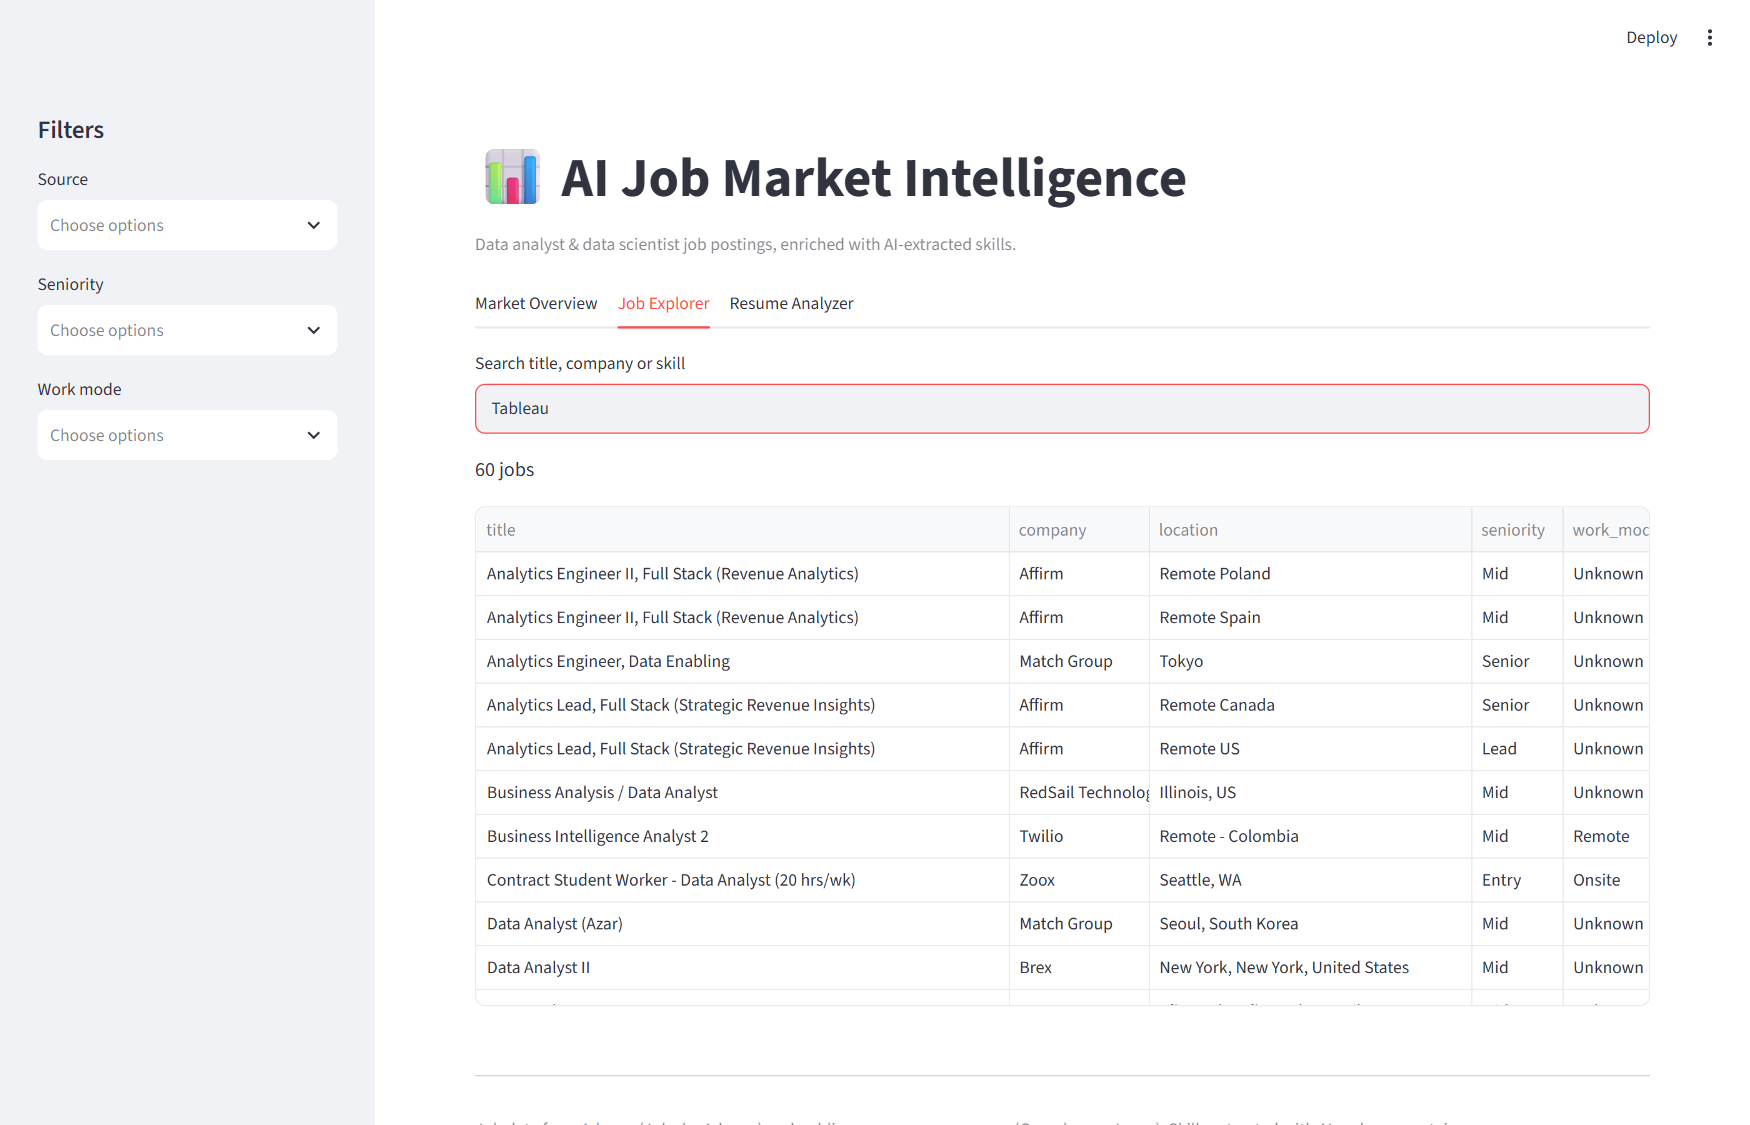
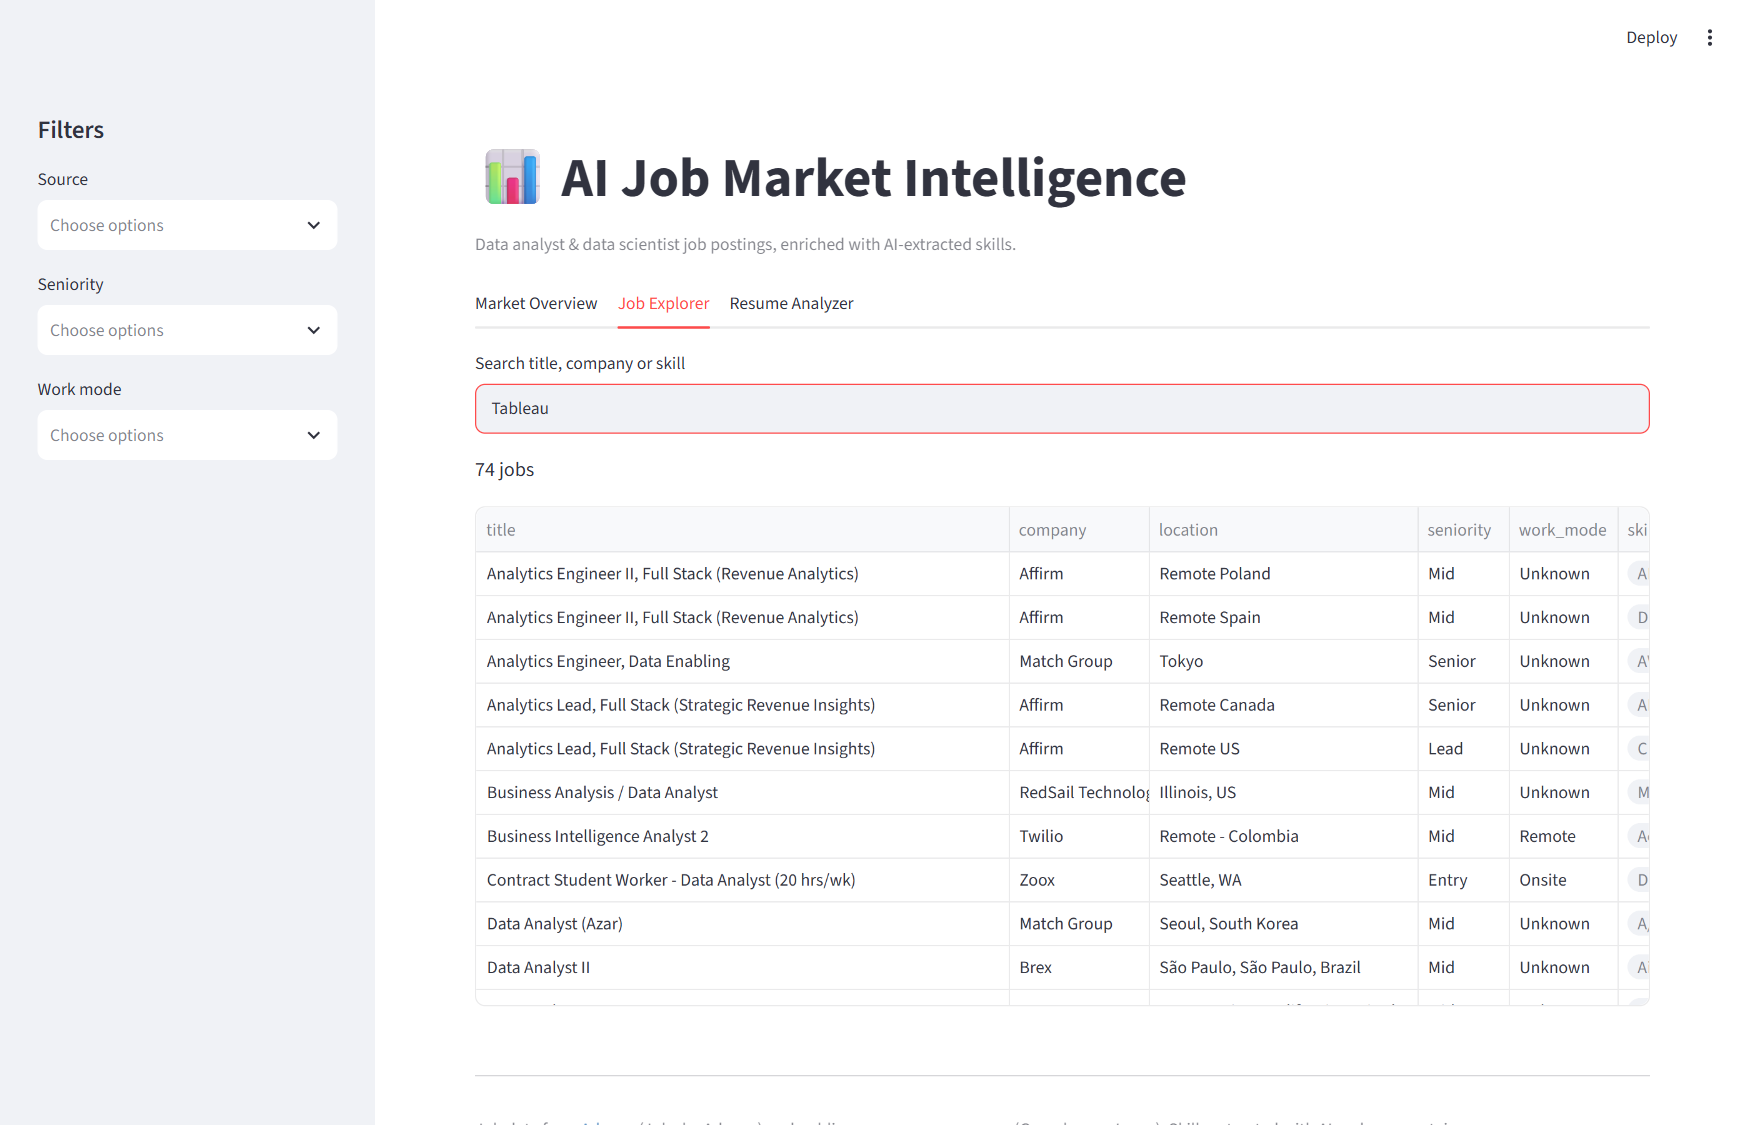
Add semantic resume matching with embeddings and pgvector
- embed_jobs.py stores a 384-dim fastembed embedding per job
- Resume match = 50% skill overlap + 50% embedding similarity via match_jobs()
- Daily workflow embeds new jobs; schema saved in sql/schema.sql
- Clean UTF-8 requirements.txt with direct dependencies only

diff --git a/app.py b/app.py
@@ -15,6 +15,7 @@ import pandas as pd
 import plotly.express as px
 import streamlit as st
 from dotenv import load_dotenv
+from fastembed import TextEmbedding
 from pypdf import PdfReader
 from supabase import create_client
 
@@ -30,12 +31,27 @@ def get_secret(name):
     return st.secrets[name].strip()
 
 
+@st.cache_resource  # connect once and re-use the connection
+def get_supabase():
+    return create_client(get_secret("SUPABASE_URL"), get_secret("SUPABASE_KEY"))
+
+
+@st.cache_resource  # load the embedding model once (~70 MB)
+def get_embedding_model():
+    return TextEmbedding("BAAI/bge-small-en-v1.5")
+
+
+# Every column except the big "embedding" column, which the dashboard doesn't need
+JOB_COLUMNS = ("job_id, source, title, company, location, salary_min, salary_max, url, "
+               "posted_date, search_term, skills, seniority, work_mode, years_experience")
+
+
 @st.cache_data(ttl=600)  # re-use the data for 10 minutes instead of reloading every click
 def load_jobs():
-    supabase = create_client(get_secret("SUPABASE_URL"), get_secret("SUPABASE_KEY"))
+    supabase = get_supabase()
     rows, start, page_size = [], 0, 1000
     while True:  # Supabase returns max 1000 rows per request, so we page through
-        batch = supabase.table("jobs").select("*").range(start, start + page_size - 1).execute().data
+        batch = supabase.table("jobs").select(JOB_COLUMNS).range(start, start + page_size - 1).execute().data
         rows.extend(batch)
         if len(batch) < page_size:
             break
@@ -57,6 +73,18 @@ def normalize_skills(df):
         display.setdefault(skill.lower(), skill)
     df["skills"] = df["skills"].apply(lambda skills: sorted({display[s.strip().lower()] for s in skills}))
     return df
+
+
+def semantic_similarity(resume_text):
+    """Embed the resume and ask pgvector for its similarity to every job.
+    Returns {job_id: score 0-100}, rescaled so the closest job = 100."""
+    vector = next(get_embedding_model().query_embed(resume_text)).tolist()
+    rows = get_supabase().rpc("match_jobs", {"query_embedding": vector, "match_count": 5000}).execute().data
+    if not rows:
+        return {}
+    sims = pd.Series({r["job_id"]: r["similarity"] for r in rows})
+    # Raw similarities sit in a narrow band (e.g. 0.55-0.85), so spread them to 0-100
+    return (100 * (sims - sims.min()) / (sims.max() - sims.min() or 1)).to_dict()
 
 
 jobs = load_jobs()
@@ -98,7 +126,7 @@ with overview_tab:
         fig = px.bar(skill_counts[::-1], orientation="h", title="Top 15 in-demand skills",
                      labels={"value": "Job postings", "index": ""})
         fig.update_layout(showlegend=False)
-        left.plotly_chart(fig, use_container_width=True)
+        left.plotly_chart(fig, width="stretch")
     else:
         left.info("No skills extracted yet - run pipeline/extract_skills.py")
 
@@ -106,22 +134,22 @@ with overview_tab:
     fig = px.bar(top_companies[::-1], orientation="h", title="Companies hiring the most",
                  labels={"value": "Job postings", "index": ""})
     fig.update_layout(showlegend=False)
-    right.plotly_chart(fig, use_container_width=True)
+    right.plotly_chart(fig, width="stretch")
 
     left, right = st.columns(2)
     order = ["Intern", "Entry", "Mid", "Senior", "Lead", "Unknown"]
     seniority_counts = filtered["seniority"].value_counts().reindex(order).dropna()
     left.plotly_chart(px.bar(seniority_counts, title="Jobs by seniority",
                              labels={"value": "Job postings", "index": ""}).update_layout(showlegend=False),
-                      use_container_width=True)
+                      width="stretch")
     right.plotly_chart(px.pie(filtered, names="work_mode", title="Remote vs hybrid vs onsite", hole=0.4),
-                       use_container_width=True)
+                       width="stretch")
 
     if len(with_salary):
         st.plotly_chart(px.box(with_salary, x="search_term", y="salary_min", points=False,
                                title="Minimum salary by role (Adzuna jobs)",
                                labels={"search_term": "", "salary_min": "Min salary ($)"}),
-                        use_container_width=True)
+                        width="stretch")
 
 # ---------- 4. Job explorer ----------
 with explorer_tab:
@@ -143,7 +171,7 @@ with explorer_tab:
             "salary_min": st.column_config.NumberColumn("Min salary", format="$%d"),
         },
         hide_index=True,
-        use_container_width=True,
+        width="stretch",
     )
 
 # ---------- 5. Resume analyzer ----------
@@ -152,35 +180,44 @@ with resume_tab:
     uploaded = st.file_uploader("Resume (PDF)", type="pdf")
 
     if uploaded:
-        resume_text = " ".join(page.extract_text() or "" for page in PdfReader(uploaded).pages).lower()
+        resume_text = " ".join(page.extract_text() or "" for page in PdfReader(uploaded).pages)
 
         # Which known skills appear in the resume? (whole-word match)
         all_skills = {s for skills in jobs["skills"] for s in skills}
         my_skills = {s for s in all_skills
-                     if re.search(rf"(?<![a-z0-9]){re.escape(s.lower())}(?![a-z0-9])", resume_text)}
+                     if re.search(rf"(?<![a-z0-9]){re.escape(s.lower())}(?![a-z0-9])", resume_text.lower())}
 
         st.subheader(f"Skills found in your resume ({len(my_skills)})")
         st.write(", ".join(sorted(my_skills)) or "No known skills found.")
 
-        # Score each job: what share of its skills do you have?
+        # Score 1 - skill match: what share of the job's skills do you have?
         scored = filtered[filtered["skills"].str.len() > 0].copy()
         scored["matched"] = scored["skills"].apply(lambda skills: len(my_skills & set(skills)))
-        scored["match"] = (100 * scored["matched"] / scored["skills"].str.len()).round()
+        scored["skill_match"] = 100 * scored["matched"] / scored["skills"].str.len()
         scored["missing"] = scored["skills"].apply(lambda skills: sorted(set(skills) - my_skills))
-        # Rank by match %, then by how many of your skills the job uses
-        # (so a job listing just 1 skill doesn't beat a richer match)
+
+        # Score 2 - meaning match: how close is your resume's embedding to the job's?
+        similarity = semantic_similarity(resume_text)
+        scored["meaning_match"] = scored["job_id"].map(similarity).fillna(0)
+
+        # Final score: half skills, half meaning
+        scored["match"] = (0.5 * scored["skill_match"] + 0.5 * scored["meaning_match"]).round()
         top = scored.sort_values(["match", "matched"], ascending=False).head(15)
 
         st.subheader("Best-matching jobs")
+        st.caption("Match = 50% skill overlap + 50% meaning similarity (AI embeddings + pgvector).")
+        percent = {"format": "%d%%", "min_value": 0, "max_value": 100}
         st.dataframe(
-            top[["match", "title", "company", "location", "missing", "url"]],
+            top[["match", "skill_match", "meaning_match", "title", "company", "location", "missing", "url"]],
             column_config={
-                "match": st.column_config.ProgressColumn("Match", format="%d%%", min_value=0, max_value=100),
+                "match": st.column_config.ProgressColumn("Match", **percent),
+                "skill_match": st.column_config.NumberColumn("Skills", format="%d%%"),
+                "meaning_match": st.column_config.NumberColumn("Meaning", format="%d%%"),
                 "missing": "Skills you're missing",
                 "url": st.column_config.LinkColumn("Apply", display_text="Open"),
             },
             hide_index=True,
-            use_container_width=True,
+            width="stretch",
         )
 
         gaps = Counter(s for missing in scored["missing"] for s in missing).most_common(10)
@@ -190,7 +227,7 @@ with resume_tab:
             gap_df = pd.DataFrame(gaps, columns=["skill", "jobs"])
             st.plotly_chart(px.bar(gap_df[::-1], x="jobs", y="skill", orientation="h",
                                    labels={"jobs": "Job postings", "skill": ""}),
-                            use_container_width=True)
+                            width="stretch")
 
 st.divider()
 st.caption("Job data from [Adzuna](https://www.adzuna.com) (Jobs by Adzuna) and public company career pages "

diff --git a/pipeline/embed_jobs.py b/pipeline/embed_jobs.py
@@ -1,0 +1,68 @@
+r"""
+embed_jobs.py - Step 4 of our pipeline.
+Turns each job into an "embedding" (384 numbers that capture its meaning)
+and saves it in Supabase, so resumes can be matched to jobs by meaning,
+not just exact keywords. Only jobs without an embedding are processed.
+
+Usage:
+    python pipeline\embed_jobs.py
+"""
+
+import os
+
+from dotenv import load_dotenv
+from fastembed import TextEmbedding
+from supabase import create_client
+
+# ---- 1. Setup ----
+load_dotenv()
+# .strip() removes accidental spaces/line breaks from copy-pasted keys
+supabase = create_client(os.getenv("SUPABASE_URL", "").strip(), os.getenv("SUPABASE_KEY", "").strip())
+
+# A small, free model that runs on your own computer (downloads ~70 MB once)
+MODEL_NAME = "BAAI/bge-small-en-v1.5"
+BATCH_SIZE = 50
+MAX_DESCRIPTION_CHARS = 1500
+
+
+def job_to_text(job):
+    """Combine the most meaningful parts of a job into one piece of text."""
+    skills = ", ".join(job.get("skills") or [])
+    description = (job.get("description") or "")[:MAX_DESCRIPTION_CHARS]
+    return f"{job['title']}. Skills: {skills}. {description}"
+
+
+def jobs_without_embedding():
+    rows, start = [], 0
+    while True:  # Supabase returns max 1000 rows per request
+        batch = (supabase.table("jobs").select("job_id, title, skills, description")
+                 .is_("embedding", "null").range(start, start + 999).execute().data)
+        rows.extend(batch)
+        if len(batch) < 1000:
+            break
+        start += 1000
+    return rows
+
+
+def main():
+    jobs = jobs_without_embedding()
+    print(f"{len(jobs)} jobs need an embedding")
+    if not jobs:
+        return
+
+    model = TextEmbedding(MODEL_NAME)
+
+    for start in range(0, len(jobs), BATCH_SIZE):
+        batch = jobs[start:start + BATCH_SIZE]
+        vectors = model.passage_embed([job_to_text(job) for job in batch])
+        rows = [{"job_id": job["job_id"], "embedding": vector.tolist()}
+                for job, vector in zip(batch, vectors)]
+        # upsert only touches the embedding column of existing jobs
+        supabase.table("jobs").upsert(rows, on_conflict="job_id").execute()
+        print(f"Embedded jobs {start + 1} - {start + len(batch)}")
+
+    print("\nDone!")
+
+
+if __name__ == "__main__":
+    main()

diff --git a/README.md b/README.md
@@ -14,6 +14,7 @@ An end-to-end data pipeline and dashboard that collects data analyst and data sc
   - Market overview: top skills, hiring companies, seniority, remote vs. onsite, salaries
   - Job explorer: search by title, company, or skill
   - Resume analyzer: upload a PDF resume to get a match score for each job and a list of skill gaps
+- **Semantic matching with embeddings**: each job and resume is turned into a 384-dimension embedding (`bge-small-en`, via fastembed) and stored in **pgvector**. The match score combines skill overlap (50%) with meaning similarity (50%), so "built Tableau dashboards" matches "data visualization" even without shared keywords.
 
 ## Architecture
 
@@ -26,7 +27,9 @@ flowchart LR
     C --> E[extract_skills.py<br/>Groq LLM → JSON]
     D --> E
     E --> F[load_to_db.py]
-    F --> G[(Supabase<br/>PostgreSQL)]
+    F --> G[(Supabase<br/>PostgreSQL + pgvector)]
+    F --> V[embed_jobs.py<br/>fastembed]
+    V --> G
     G --> H[Streamlit dashboard<br/>app.py]
 ```
 
@@ -37,7 +40,8 @@ flowchart LR
 | Data collection | Python, Requests, REST APIs |
 | AI / NLP | Groq API (`gpt-oss` models), JSON mode, prompt engineering |
 | Data processing | pandas |
-| Database | Supabase (PostgreSQL) |
+| Database | Supabase (PostgreSQL), pgvector |
+| Embeddings | fastembed (`BAAI/bge-small-en-v1.5`, 384 dims) |
 | Dashboard | Streamlit, Plotly |
 | Resume parsing | pypdf |
 | Automation / deployment | GitHub Actions, Streamlit Community Cloud |
@@ -51,9 +55,11 @@ job-market-intelligence/
 │   ├── fetch_company_jobs.py  # Greenhouse/Lever → data/company_jobs.csv
 │   ├── companies.csv          # list of company job boards
 │   ├── extract_skills.py      # LLM extraction → data/jobs_enriched.csv
-│   └── load_to_db.py          # upload to Supabase
+│   ├── load_to_db.py          # upload to Supabase
+│   └── embed_jobs.py          # job embeddings → pgvector
 ├── .github/workflows/
 │   └── daily_refresh.yml      # daily pipeline run
+├── sql/schema.sql             # database tables, pgvector, match_jobs()
 ├── docs/                      # screenshots
 ├── app.py                     # Streamlit dashboard
 ├── requirements.txt
@@ -84,6 +90,7 @@ job-market-intelligence/
    python pipeline/fetch_company_jobs.py
    python pipeline/extract_skills.py
    python pipeline/load_to_db.py
+   python pipeline/embed_jobs.py
    streamlit run app.py
    ```
 
